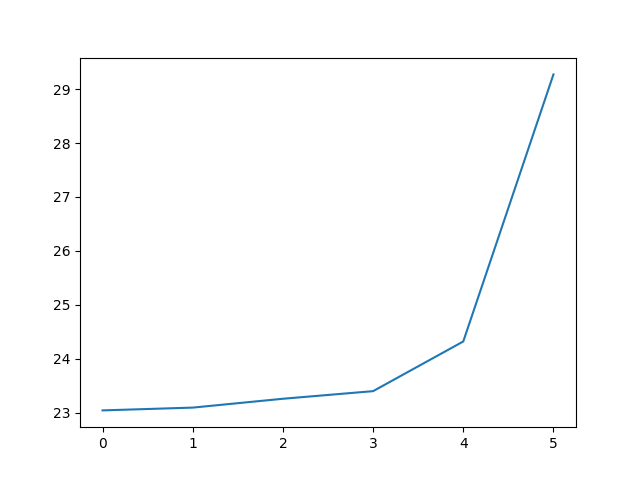
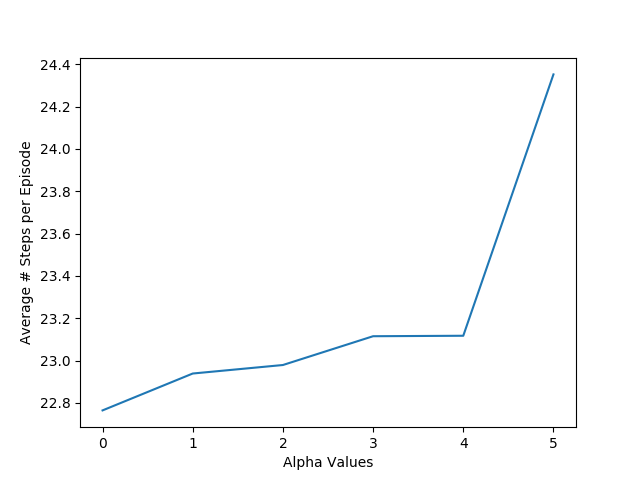
Fixing

diff --git a/assignment5/part2/plot.py b/assignment5/part2/plot.py
@@ -31,5 +31,9 @@ if __name__ == "__main__":
   plt.plot(alpha_sweep,data)
   plt.savefig("Dyna-Q.labelled.png")
   plt.clf()
+
+  plt.xlabel("Alpha Values")
+  plt.ylabel("Average # Steps per Episode")
+
   plt.plot(data)
   plt.savefig("Dyna-Q.png")
